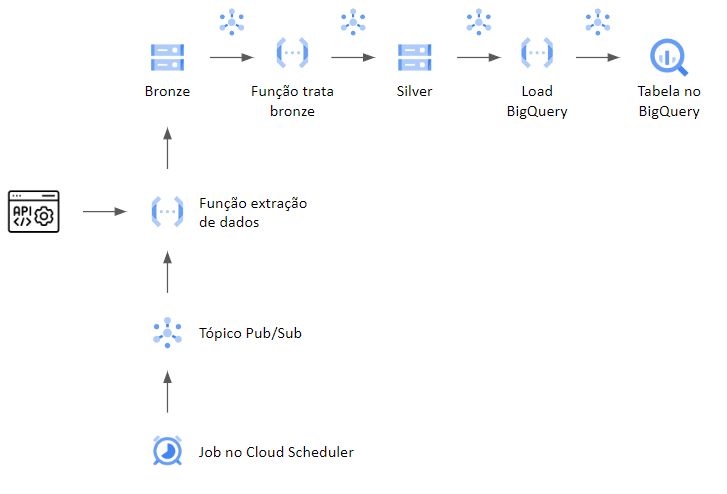
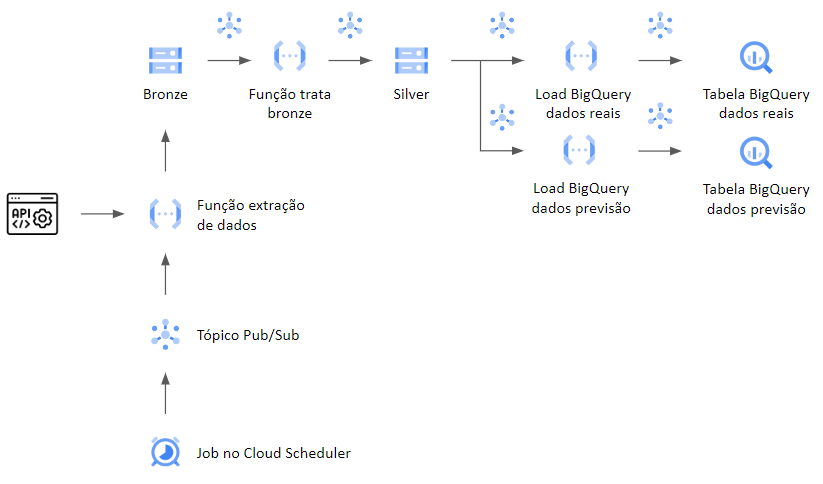
etapas iniciais projeto05

diff --git a/projeto05_previsaotempo.html b/projeto05_previsaotempo.html
@@ -2,7 +2,7 @@
 <html lang="en">
 <head>
 	<meta charset="utf-8"/>
-	<title>Projeto - Pinguins</title>
+	<title>Projeto - API HG Weather</title>
 	<!-- Google Font -->
 	<link href="https://fonts.googleapis.com/css?family=Playfair+Display:400,700|Source+Sans+Pro:400,700" rel="stylesheet">
 	<!-- Font Awesome Icons -->
@@ -45,7 +45,7 @@ MAIN
 			<p>
 				Este projeto foi inteiramente realizado na Google Cloud Plataform (GCP) e consiste das seguintes etapas:
 				<ul>
-					<li>Coleta de dados utilizando a API HG Weather.</li>
+					<li>Coleta de dados do clima da cidade de São Carlos (dados atuais e de previsão) utilizando a API HG Weather.</li>
 					<li>Tratamento de dados da camada bronze para a silver.</li>
 					<li>Upload dos dados no BigQuery.</li>
 				</ul>
@@ -54,12 +54,39 @@ MAIN
 				A arquitetura do projeto é apresentada no fluxograma abaixo:
 			</p>
 			<img src="images\projetos\05_01.png">
+			<p>
+				Vale ressaltar que, como o projeto foi realizado de forma totalmente gratuita (utilizando o período de teste de 90 dias da GCP), as cloud functions permaneceram rodando apenas entre o período de 15/10/2023 a 14/01/2024.
+			</p>
+			<br>
+			<br>
 			<div>
 				<h2>Etapas iniciais</h2>
 			</div>
 			<br>
 			<p>
-				XXXXX
+				O primeiro passo do projeto foi entender o funcionamento da API HG Weather, a qual seria utilizada para coletar os dados do clima da cidade de São Carlos.
+				A partir da documentação foi possível verificar que cada cidade possui um código WOEID e que esse tipo de consulta não necessitava de chave da API.
+				Foi necessário apenas buscar pela cidade requerida e, então, o link para utilização da API foi gerado automaticamente.
+			</p>
+			<img src="images\projetos\05_02.png">
+			<p>
+				Ao fazer uma requisição utilizando o link da API, um JSON é retornado com dois tipos de informações:
+				<ul>
+					<li>Dados sobre o clima atual: data, horário, temperatura, descrição do tempo, umidade, velocidade do vento, entre outras informações.</li>
+					<li>Dados da previsão do tempo dos próximos 9 dias: data, dia da semana, temperaturas máxima e mínima, probabilidade de chuva, entre outras.</li>
+				</ul>
+			</p>
+			<p>
+				Dessa forma, após entender o formato dos dados, iniciou-se a etapa de extração.
+			</p>
+			<br>
+			<br>
+			<div>
+				<h2>Extração e ingestão dos dados</h2>
+			</div>
+			<br>
+			<p>
+				
 			</p>
 		</article>
 	</div>
